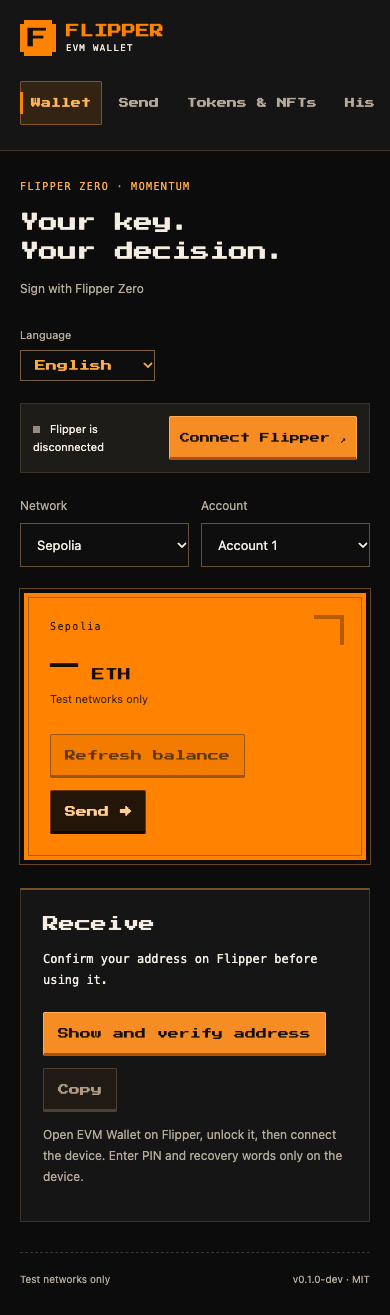
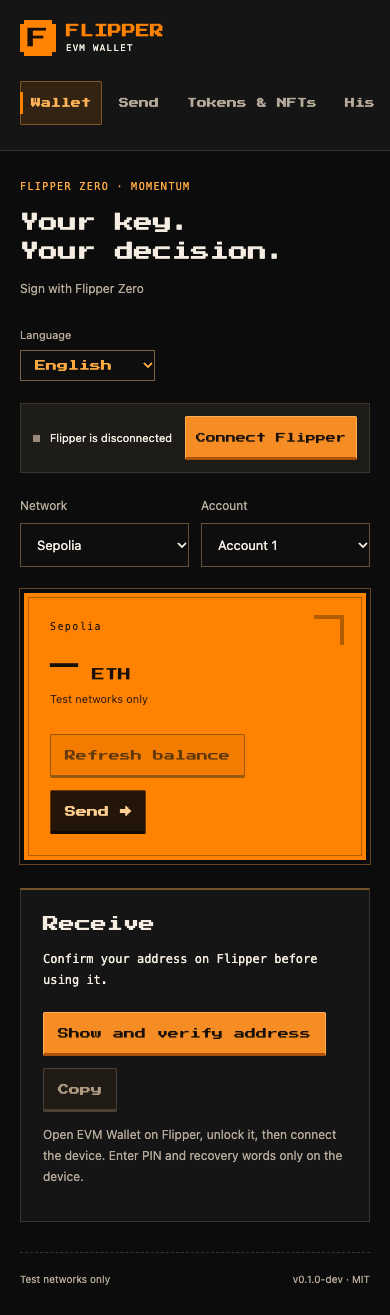
Remove arrow from connect button

Changed region(s): [[0.4, 0.3118, 0.6462, 0.3741], [0.0615, 0.3118, 0.3077, 0.343], [0.6769, 0.3118, 0.8615, 0.343]]

diff --git a/extension/src/ui.tsx b/extension/src/ui.tsx
@@ -185,7 +185,7 @@ function App() {
               })
             }
           >
-            {t.connect} ↗
+            {t.connect}
           </button>
         </section>
         <div className="selectors">
